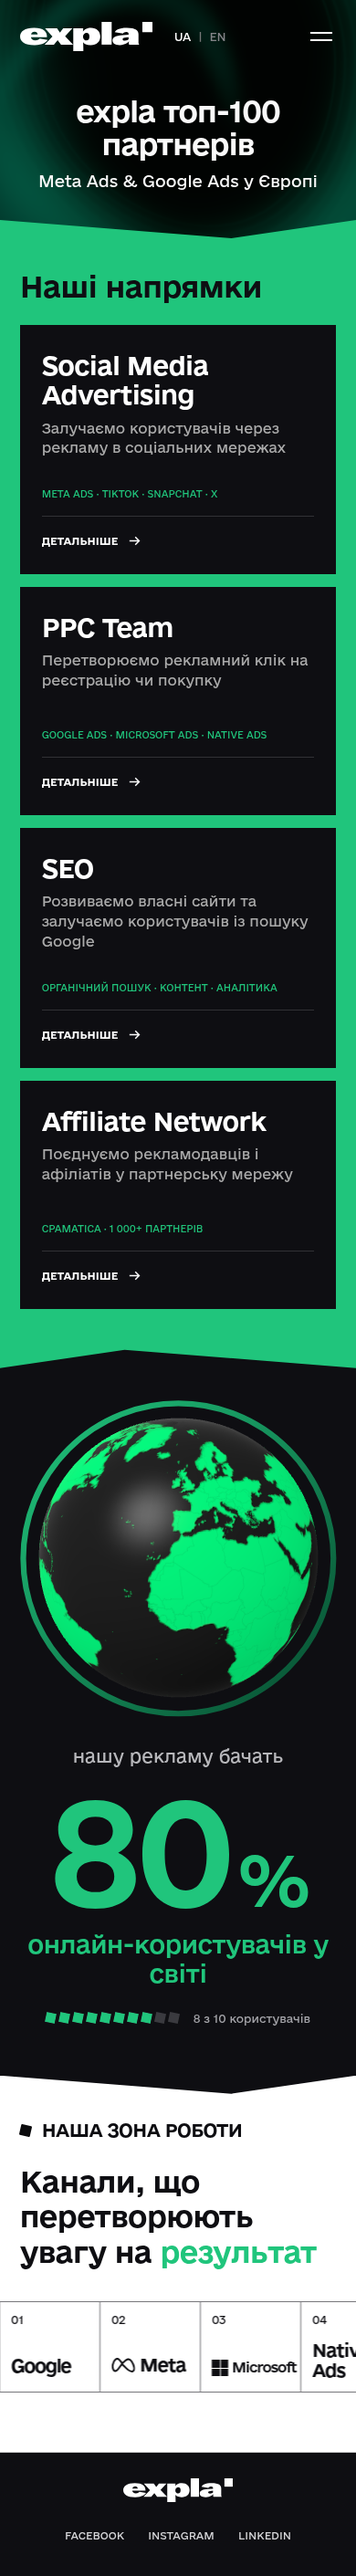
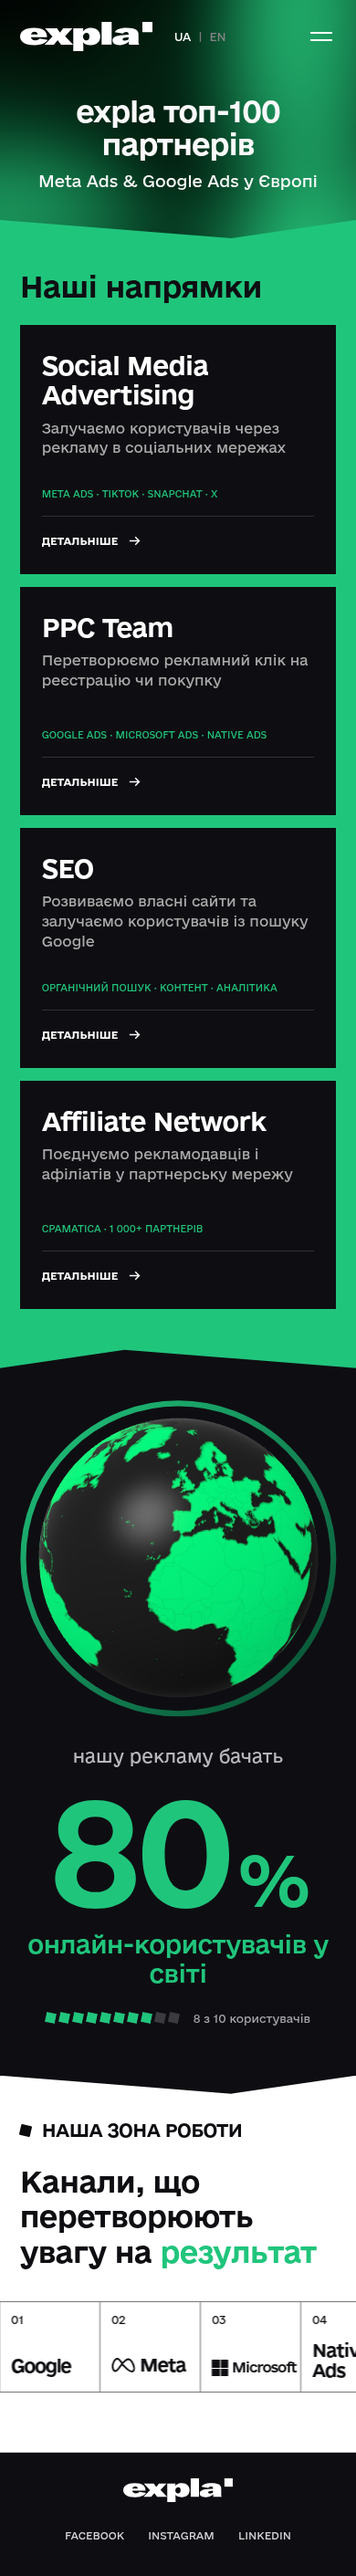
Use soft brand-green hero waves with automatic and pointer motion

Changed region(s): [[0.0, 0.0, 1.0, 0.0936]]

diff --git a/src/components/HeroBackground.jsx b/src/components/HeroBackground.jsx
@@ -37,10 +37,10 @@ export default function HeroBackground() {
       renderer.domElement.setAttribute('aria-hidden', 'true'); host.appendChild(renderer.domElement);
       scene = new THREE.Scene(); camera = new THREE.Camera(); geometry = new THREE.PlaneGeometry(2, 2);
       material = new THREE.ShaderMaterial({
-        uniforms: { time: { value: 0 }, aspect: { value: 1 }, pointer: { value: new THREE.Vector2(.5, .5) }, activity: { value: 0 } },
+        uniforms: { brandColor: { value: new THREE.Color('#27C77C') }, time: { value: 0 }, aspect: { value: 1 }, pointer: { value: new THREE.Vector2(.5, .5) }, activity: { value: 0 } },
         vertexShader: 'varying vec2 uvPosition; void main(){uvPosition=uv;gl_Position=vec4(position,1.0);}',
         fragmentShader: `
-          uniform float time, aspect, activity; uniform vec2 pointer;
+          uniform float time, aspect, activity; uniform vec2 pointer; uniform vec3 brandColor;
           varying vec2 uvPosition;
           float band(float distance, float width){
             float d=distance/width; return exp(-d*d);
@@ -54,35 +54,28 @@ export default function HeroBackground() {
             float ambientAngle=sin(t*.55)*.055;
             mat2 ambientTurn=mat2(cos(ambientAngle),-sin(ambientAngle),sin(ambientAngle),cos(ambientAngle));
             p=ambientTurn*p;
-            float angle=activity*exp(-radius*radius*1.5)*sin(t*.8+radius*4.0)*1.05;
+            float angle=activity*exp(-radius*radius*1.5)*sin(t*.8+radius*4.0)*1.5;
             mat2 turn=mat2(cos(angle),-sin(angle),sin(angle),cos(angle));
             p=mouse+turn*(p-mouse);
             vec2 uv=p/vec2(aspect,1.0)+.5;
             uv+=vec2(.025*sin(t*.8+uv.y*4.0),.018*sin(t*.6+uv.x*3.0));
-            // Broad lower emerald sweep, fine inner filaments and a dark center.
-            vec2 center=vec2(.53+.012*sin(t*.5),.78+.012*cos(t*.4));
-            vec2 q=(uv-center)/vec2(.57,.90);
-            q.x+=.065*sin(q.y*2.6+t*.3);
-            q.y+=.04*sin(q.x*3.0-t*.35);
-            float r=length(q);
-            float flow=.85+.15*sin(atan(q.y,q.x)*3.0-t*.6);
-            float lower=1.0-smoothstep(.20,.95,uv.y);
-            float outer=band(r-1.0,.18)*flow;
-            float threads=0.0;
-            for(int i=0;i<6;i++){
-              float layer=float(i);
-              float strand=.73+layer*.043+.009*sin(t*.45+uv.x*5.0+layer);
-              threads+=.075*band(r-strand,.007+layer*.0015);
-            }
-            float leftArc=length((uv-vec2(.34,.12))/vec2(.38,.95));
-            float upperLeft=band(leftArc-1.0,.08)*smoothstep(.45,1.0,uv.y);
-            float corner=band(uv.x,.17)*(1.0-uv.y);
-            float readability=1.0-.72*exp(-pow((uvPosition.x-.5)/.24,2.0));
-            float hover=1.0+activity*.65*exp(-radius*2.0);
-            vec3 emerald=vec3(.0007,.095,.052)*outer*(.28+.72*lower)
-              +vec3(.0004,.038,.023)*threads
-              +vec3(.0003,.035,.021)*upperLeft+vec3(.0002,.035,.023)*corner;
-            gl_FragColor=vec4(vec3(.0003,.0009,.0006)+emerald*readability*hover,1.0);
+            // Wide, softly diffused waves: no fine contours or filament lines.
+            vec2 flowUv=uv+activity*(pointer-.5)*.18;
+            flowUv.x+=.055*sin(uv.y*4.0-t*.45);
+            flowUv.y+=.08*sin(uv.x*3.6+t*.55);
+            float rightCenter=.83+.10*sin(flowUv.y*4.0+t*.35);
+            float rightWave=band(flowUv.x-rightCenter,.19);
+            float lowerCenter=.13+.12*sin(flowUv.x*5.0-t*.45);
+            float lowerWave=band(flowUv.y-lowerCenter,.23);
+            float upperGlow=exp(-dot((flowUv-vec2(.77,.94))/vec2(.31,.49),
+              (flowUv-vec2(.77,.94))/vec2(.31,.49)));
+            float leftGlow=exp(-dot((flowUv-vec2(.08,.12))/vec2(.29,.40),
+              (flowUv-vec2(.08,.12))/vec2(.29,.40)));
+            float field=.48*rightWave+.33*lowerWave+.25*upperGlow+.16*leftGlow;
+            float readability=1.0-.78*exp(-pow((uvPosition.x-.48)/.25,2.0));
+            float hover=1.0+activity*1.1*exp(-radius*2.0);
+            float intensity=clamp(field*readability*hover,0.0,.92);
+            gl_FragColor=vec4(mix(vec3(.0004,.0008,.0006),brandColor,intensity),1.0);
             #include <colorspace_fragment>
           }
         `,

diff --git a/docs/WEBSITE.md b/docs/WEBSITE.md
@@ -85,3 +85,5 @@ The globe now renders at up to Retina 2× with a 4K map. Coarse per-vertex eleva
 The latest TOP-100 shader uses a broad lower emerald arc, thin inner filaments, and a dark center following the new supplied reference. Idle drift and cursor deformation remain independent. Globe rotation now defaults to 40 seconds per turn; denser smooth geometry, more accurate projected paths, softer coast relief, and up to 8× anisotropic filtering improve clarity.
 
 The globe now uses a soft glossy studio highlight and restrained directional rim, with a stronger shaded coastline bevel, matching the earlier supplied glossy reference. The hero arcs have asymmetric flowing curvature and six fine animated filaments; idle motion and cursor interaction remain enabled.
+
+The current TOP-100 background replaces fine filament lines with broad diffused waves in the exact sRGB brand color `#27C77C` (converted to linear color for the shader). It animates on page load without pointer input; pointer movement adds stronger local distortion and brightness, then settles back to ambient drift. Reduced-motion preferences retain a static background.
